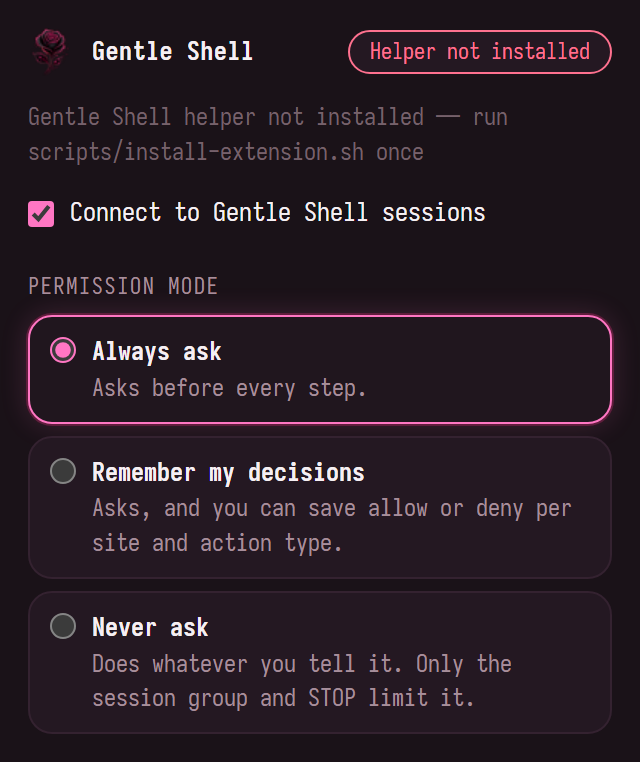
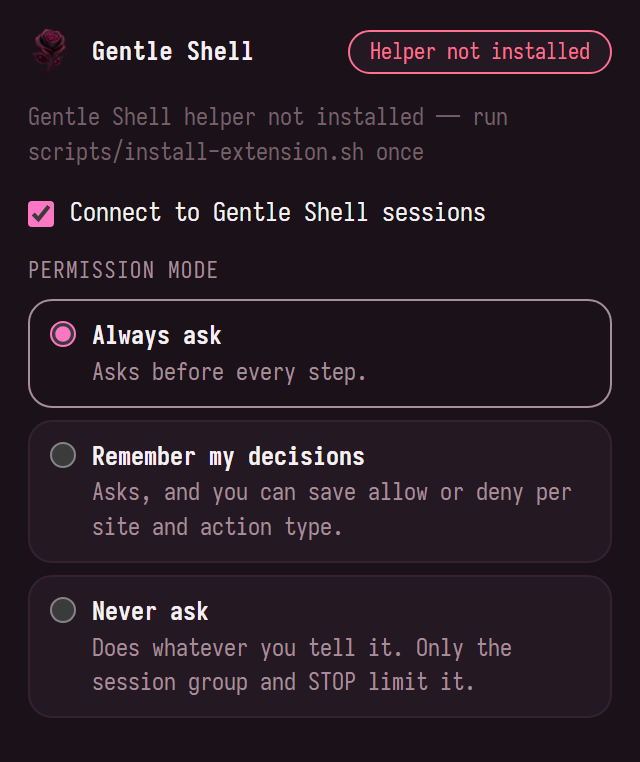
Drop the session list from the popup

Changed region(s): [[0.0312, 0.332, 0.9688, 0.7244], [0.0625, 0.7848, 0.8125, 0.9357]]

diff --git a/extension/popup.css b/extension/popup.css
@@ -172,48 +172,6 @@ label.switch {
 	cursor: pointer;
 }
 
-#session-list {
-	display: grid;
-	gap: 6px;
-	margin: 0;
-	padding: 0;
-	list-style: none;
-}
-
-#session-list li {
-	display: flex;
-	gap: 8px;
-	align-items: center;
-	padding: 8px 10px;
-	border: 1px solid var(--surface2);
-	border-radius: var(--radius-md);
-	background: var(--surface1);
-	overflow-wrap: anywhere;
-}
-
-#session-list .dot {
-	flex: none;
-	width: 8px;
-	height: 8px;
-	border-radius: var(--radius-pill);
-	background: var(--subtext0);
-}
-
-#session-list li[data-state="connected"] .dot {
-	background: var(--rose);
-	box-shadow: 0 0 6px var(--rose);
-}
-
-#session-list li[data-state="connecting"] .dot,
-#session-list li[data-state="waiting"] .dot {
-	background: var(--yellow);
-}
-
-#session-list li[data-state="untrusted"] .dot,
-#session-list li[data-state="unauthorized"] .dot {
-	background: var(--red);
-}
-
 .row {
 	display: flex;
 	gap: 6px;

diff --git a/extension/popup.js b/extension/popup.js
@@ -39,20 +39,6 @@ function render(state) {
 	$("helper").hidden = !state.helper.error;
 	$("helper").textContent = state.helper.error ?? "";
 	$("enabled").checked = state.enabled;
-	const list = $("session-list");
-	list.replaceChildren(
-		...state.sessions.map((session) => {
-			const item = document.createElement("li");
-			const dot = document.createElement("span");
-			dot.className = "dot";
-			const text = document.createElement("span");
-			text.textContent = `${session.name} — ${session.state}`;
-			item.append(dot, text);
-			item.title = session.title;
-			item.dataset.state = session.state;
-			return item;
-		}),
-	);
 	$("no-sessions").hidden = state.helper.state !== "ok" || state.sessions.length > 0;
 	$("stop").hidden = connected === 0;
 }

diff --git a/extension/popup.html b/extension/popup.html
@@ -21,7 +21,6 @@
 				<input id="enabled" type="checkbox" />
 				<span>Connect to Gentle Shell sessions</span>
 			</label>
-			<ul id="session-list"></ul>
 			<p id="no-sessions" class="hint" hidden>No Gentle Shell session is running. Start Gentle Shell; it connects on its own.</p>
 		</section>
 

diff --git a/README.md b/README.md
@@ -36,9 +36,9 @@ While the agent works in a tab, you see what it does: a pink frame, a cursor tha
 
 ![The agent about to click "Subscribe" on a demo page: pink frame, ghost cursor on the button, the label Click · "Subscribe" and the STOP banner](docs/images/overlay.png)
 
-The extension popup shows the connected sessions, the permission mode and STOP:
+The extension popup shows how many sessions are connected, the On/Off switch, the permission mode and STOP:
 
-<img src="docs/images/popup-connected.png" alt="Extension popup: two connected sessions, Always ask selected, STOP button" width="320">
+<img src="docs/images/popup-connected.png" alt="Extension popup: Connected (2), the connect switch on, Always ask selected, STOP button" width="320">
 
 | Mode | What asks you |
 |---|---|
@@ -102,7 +102,7 @@ There is no pairing code. Every 30 seconds, when Chrome starts and whenever you 
 
 A session entry the helper lists that is not valid is skipped; the other sessions still connect. Gentle Shell records each session's name trimmed, without control characters, at most 60 characters, and "session" when empty.
 
-The popup lists the sessions as `name — connected`, `connecting`, `waiting` or `untrusted`, and has an **On/Off** switch: Off closes every connection and stops connecting until you turn it On again.
+The popup shows how many sessions are connected in its status pill and has an **On/Off** switch ("Connect to Gentle Shell sessions"): Off closes every connection and stops connecting until you turn it On again. Check a single session from Gentle Shell with `/browser status`.
 
 The token itself never travels over the socket. On every connection both sides exchange random nonces and prove they know the token with an HMAC that also names the session: Gentle Shell proves it first, then the extension. If whatever listens on a session's port cannot prove it (another program took the port), the extension closes that connection, stops retrying it and lists it as `untrusted`; turn the switch Off and On to try again.
 
@@ -270,9 +270,9 @@ The popup and the on-page cursor, highlight, label and STOP banner follow the [G
 |---------|-----|
 | Popup says **Gentle Shell helper not installed — run scripts/install-extension.sh once** | Run the script; it registers the helper. If it still shows, reload the extension once in `chrome://extensions`. |
 | Popup says **Gentle Shell helper sent an invalid reply** | The helper and the extension come from different checkouts: run `scripts/install-extension.sh` again. |
-| A session is **untrusted** | The listener on its port could not prove it knows the token: another program took the port. Turn the popup switch Off and On; restart that Gentle Shell session if it persists. |
+| A session never connects (**untrusted**) | The listener on its port could not prove it knows the token: another program took the port. Turn the popup switch Off and On; restart that Gentle Shell session if it persists. |
 | No sessions listed, or a session stays **waiting** | Check `/browser status` in that session; run `/browser start`. A `GENTLE_CHROME_PORT` outside 48733–48832 is never connected. |
-| A session shows **replaced** | Another Chrome profile or window with the extension took that session. Turn the switch Off and On to take it back. |
+| A session disconnects (**replaced**) | Another Chrome profile or window with the extension took that session. Turn the switch Off and On to take it back. |
 | "Tab N is not in the Gentle Shell group" | Drag the tab into this session's group, or ask the agent to open a page (`browser_act` with `open`). |
 | Every step is denied | Check the terminal for the prompt; answers time out after 5 minutes. |
 | A step is denied without a prompt ("saved rule: deny …") | You saved Always deny for that site and kind: `/browser rules` lists it; `/browser rules clear <site>` or the popup removes it. |

diff --git a/docs/GUIDE.md b/docs/GUIDE.md
@@ -95,11 +95,11 @@ Close and open Gentle Shell so it loads the package. The connection starts by it
 ### How to check it worked
 
 1. In Gentle Shell, run `/browser status`. It prints the session name and port, for example `session "my-app" (…) listening on 127.0.0.1:48733`, and whether Chrome is connected. Chrome connects within 30 seconds, or at once when you open the popup. The agent gets its `browser_*` tools only while Chrome is connected, so they cost no tokens before that.
-2. Click the extension icon in Chrome. The popup lists your session as **connected**, and the toolbar badge shows **ON** (or the number of connected sessions).
+2. Optionally, click the extension icon in Chrome. The popup's status pill shows **Connected (N)** with the number of connected sessions, and the toolbar badge shows **ON** (or that number).
 
-![The Gentle Shell popup with two sessions, my-app and docs-site, both connected, and the Always ask mode selected](images/popup-connected.png)
+![The Gentle Shell popup: status Connected (2), the connect switch on, and the Always ask mode selected](images/popup-connected.png)
 
-If the popup shows something else, see [Troubleshooting](#10-troubleshooting).
+If `/browser status` says Chrome is not connected, see [Troubleshooting](#10-troubleshooting).
 
 ## 4. Using it
 
@@ -330,9 +330,9 @@ The agent itself gets four tools, only while Chrome is connected to its session:
 |---------|-----|
 | The popup says **Gentle Shell helper not installed — run scripts/install-extension.sh once** (picture below) | Run `scripts/install-extension.sh`; it registers the helper. If the message stays, reload the extension once in `chrome://extensions`. |
 | The popup says **Gentle Shell helper sent an invalid reply** | The helper and the extension come from different copies of the code. Run `scripts/install-extension.sh` again. |
-| No session listed, or a session stays **waiting** or **connecting** | Run `/browser status` in that session, then `/browser start`. Open the popup to make the extension look again. |
-| A session is **untrusted** | Another program answered on that session's port and could not prove it knows the secret. Turn the popup switch Off and On; if it persists, restart that Gentle Shell session. |
-| A session shows **replaced** | Another Chrome profile with the extension took that session. Turn the switch Off and On to take it back. |
+| `/browser status` keeps saying Chrome is not connected | Run `/browser start` in that session. Open the popup to make the extension look again, and check that its switch is on. |
+| A session never connects (**untrusted**) | Another program answered on that session's port and could not prove it knows the secret. Turn the popup switch Off and On; if it persists, restart that Gentle Shell session. |
+| A session disconnects (**replaced**) | Another Chrome profile with the extension took that session. Turn the switch Off and On to take it back. |
 | "Tab N is not in the Gentle Shell group" | Drag the tab into this session's group, or ask the agent to open the page itself. |
 | The agent's screenshot fails after 5 seconds | Chrome does not paint background tabs. Switch to the tab, or let the agent read the page text instead. |
 | Every step is denied | Look for the prompt in the terminal of the session that asked; it times out after 5 minutes. |
